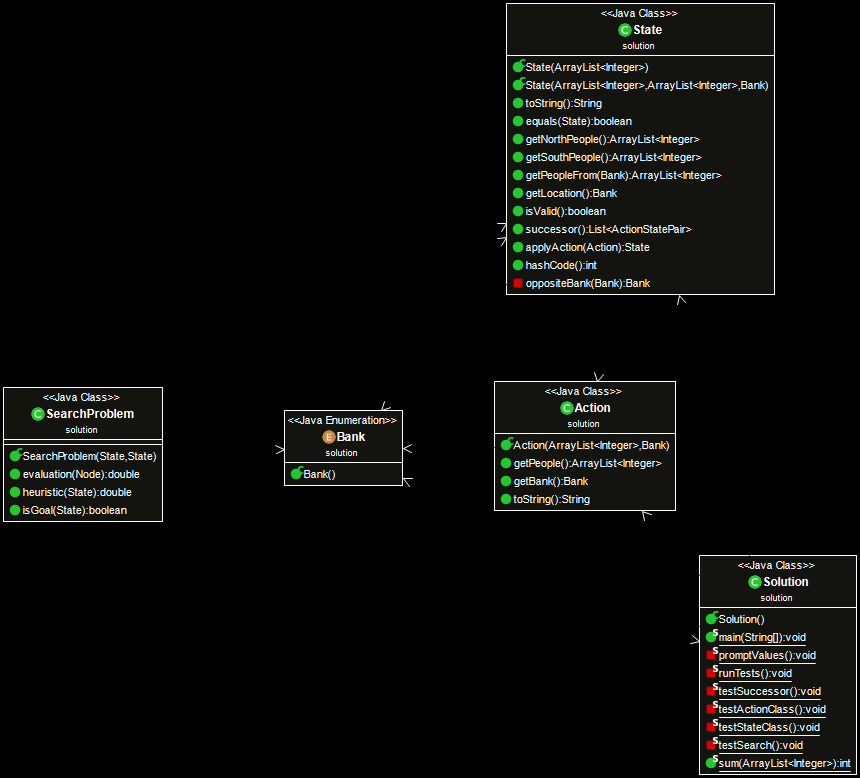
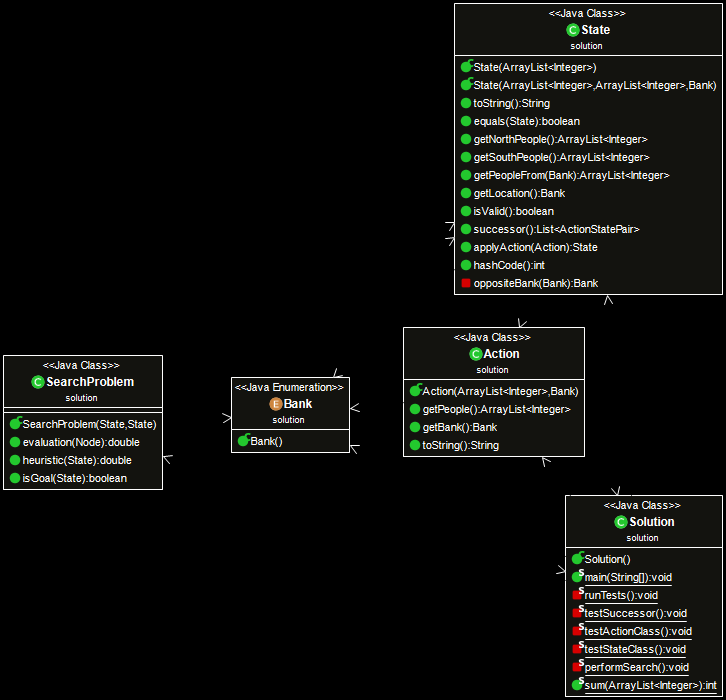
Formatting

diff --git a/src/solution/Solution.java b/src/solution/Solution.java
@@ -4,150 +4,128 @@ import java.util.ArrayList;
 import java.util.Scanner;
 
 public class Solution {
-	static public int RAFT_SIZE = 2;
-	static public int RAFT_MAX_WEIGHT = 180;
-	static public int NUM_PEOPLE = 4;
-
-	@SuppressWarnings("serial")
-	static public ArrayList<Integer> PEOPLE = new ArrayList<Integer>() {{
-		add(100);
-		add(90);
-		add(50);
-		add(30);
-	}};
-
-	public static void main(String[] args) {
-		//promptValues();
-		runTests();
-	}
-
-	private static void promptValues() {
-		Scanner scan = new Scanner(System.in);
-
-		System.out.println("RAFT_SIZE");
-		RAFT_SIZE = scan.nextInt();
-
-		System.out.println("RAFT_MAX_WEIGHT");
-		RAFT_MAX_WEIGHT = scan.nextInt();
-
-		System.out.println("NUM_PEOPLE");
-		NUM_PEOPLE = scan.nextInt();
-		PEOPLE.clear();
-		for(int i = 0; i < NUM_PEOPLE; i++)
-			PEOPLE.add(scan.nextInt());
-
-		scan.close();
-	}
-
-	private static void runTests() {
-		//testStateClass();
-		//testActionClass();
-		//testSuccessor();
-		testSearch();
-	}
-
-	@SuppressWarnings("serial")
-	private static void testSuccessor() {
-		State test = new State(
-			new ArrayList<Integer>() {{
-				add(100);
-				add(80);
-				add(60);
-				add(40);
-			}}
-		);
-		System.out.println(test.successor().toString());
-	}
-
-	@SuppressWarnings("serial")
-	private static void testActionClass() {
-		Action test = new Action(
-			new ArrayList<Integer>() {{
-				add(100);
-			}},
-			Bank.SOUTH
-		);
-		System.out.println(test.toString());
-		State test2 = new State(
-			new ArrayList<Integer>() {{
-				add(100);
-				add(80);
-			}}
-		), test3 = test2.applyAction(test);
-		System.out.println(test2.toString());
-		System.out.println(test3.toString());
-	}
-
-	@SuppressWarnings("serial")
-	private static void testStateClass() {
-		State test = new State(
-			new ArrayList<Integer>() {{
-				add(100);
-				add(80);
-			}}
-		);
-		State test2 = new State(
-			new ArrayList<Integer>() {{
-				add(100);
-				add(80);
-			}},
-			new ArrayList<Integer>() {{
-				add(100);
-				add(80);
-			}},
-			Bank.SOUTH
-		);
-		System.out.println(test.toString());
-		System.out.println(test2.toString());
-		System.out.println(test.equals(test2));
-		System.out.println(test2.equals(test));
-		test2 = new State(
-			new ArrayList<Integer>() {{
-				add(100);
-				add(-80);
-			}},
-			new ArrayList<Integer>() {{
-				add(100);
-				add(80);
-			}},
-			Bank.SOUTH
-		);
-		System.out.println(test2.isValid());
-	}
-
-	@SuppressWarnings("serial")
-	private static void testSearch() {
-		RAFT_SIZE = 3;
-		RAFT_MAX_WEIGHT = 180;
-		NUM_PEOPLE = 7;
-		State start = new State(
-			new ArrayList<Integer>() {{
-				add(100);
-				add(80);
-				add(60);
-				add(40);
-				add(70);
-				add(50);
-				add(90);
-			}}
-		);
-		State goal = new State(
-			new ArrayList<Integer>() {{ }},
-			new ArrayList<Integer>() {{
-				add(100);
-				add(80);
-				add(60);
-				add(40);
-				add(70);
-				add(50);
-				add(90);
-			}},
-			Bank.SOUTH
-		);
-		SearchProblem test = new SearchProblem(start, goal);
-		test.search();
-	}
-
+	/* problem's default values */
+		static public int RAFT_SIZE = 2;
+		static public int RAFT_MAX_WEIGHT = 180;
+		@SuppressWarnings("serial")
+		static public ArrayList<Integer> PEOPLE = new ArrayList<Integer>() {{
+			add(100);
+			add(90);
+			add(50);
+			add(30);
+		}};
+		static public int NUM_PEOPLE = PEOPLE.size();
+	/* main */
+		public static void main(String[] args) {
+			//runTests();
+			performSearch();
+		}
+	/* tests */
+		private static void runTests() {
+			testStateClass();
+			testActionClass();
+			testSuccessor();
+		}
+		@SuppressWarnings("serial")
+		private static void testSuccessor() {
+			State test = new State(
+				new ArrayList<Integer>() {{
+					add(100);
+					add(80);
+					add(60);
+					add(40);
+				}}
+			);
+			System.out.println(test.successor().toString());
+		}
+		@SuppressWarnings("serial")
+		private static void testActionClass() {
+			Action test = new Action(
+				new ArrayList<Integer>() {{
+					add(100);
+				}},
+				Bank.SOUTH
+			);
+			System.out.println(test.toString());
+			State test2 = new State(
+				new ArrayList<Integer>() {{
+					add(100);
+					add(80);
+				}}
+			), test3 = test2.applyAction(test);
+			System.out.println(test2.toString());
+			System.out.println(test3.toString());
+		}
+		@SuppressWarnings("serial")
+		private static void testStateClass() {
+			State test = new State(
+				new ArrayList<Integer>() {{
+					add(100);
+					add(80);
+				}}
+			);
+			State test2 = new State(
+				new ArrayList<Integer>() {{
+					add(100);
+					add(80);
+				}},
+				new ArrayList<Integer>() {{
+					add(100);
+					add(80);
+				}},
+				Bank.SOUTH
+			);
+			System.out.println(test.toString());
+			System.out.println(test2.toString());
+			System.out.println(test.equals(test2));
+			System.out.println(test2.equals(test));
+			test2 = new State(
+				new ArrayList<Integer>() {{
+					add(100);
+					add(-80);
+				}},
+				new ArrayList<Integer>() {{
+					add(100);
+					add(80);
+				}},
+				Bank.SOUTH
+			);
+			System.out.println(test2.isValid());
+		}
+	/* search */
+		@SuppressWarnings("serial")
+		private static void performSearch() {
+			RAFT_SIZE = 3;
+			RAFT_MAX_WEIGHT = 180;
+			NUM_PEOPLE = 7;
+			State start = new State(
+				new ArrayList<Integer>() {{
+					add(100);
+					add(80);
+					add(60);
+					add(40);
+					add(70);
+					add(50);
+					add(90);
+				}}
+			);
+			State goal = new State(
+				new ArrayList<Integer>() {{ }},
+				new ArrayList<Integer>() {{
+					add(100);
+					add(80);
+					add(60);
+					add(40);
+					add(70);
+					add(50);
+					add(90);
+				}},
+				Bank.SOUTH
+			);
+			SearchProblem test = new SearchProblem(start, goal);
+			test.search();
+		}
+	/* utility */
 	public static int sum(ArrayList<Integer> data) {
 		int sum = 0;
 		for(int element : data)
